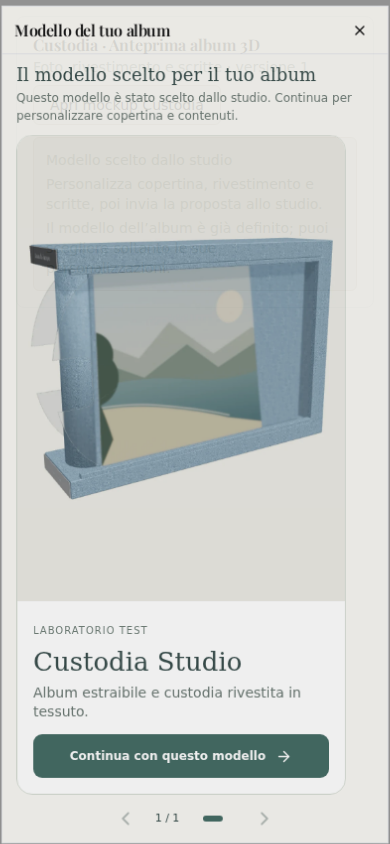
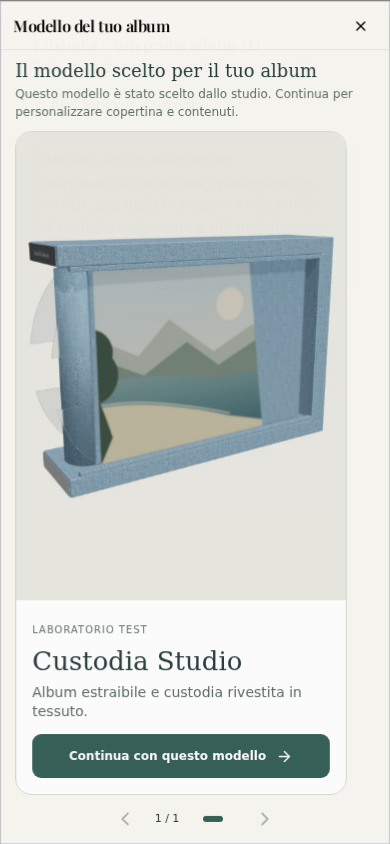
Bound mockup touch validation on software WebGL
Replit-Task-Id: 07e81dd9-e007-4550-8fd3-b0f441b176ba
Replit-Merge-Attempt: MergeTask:07e81dd9-e007-4550-8fd3-b0f441b176ba:1:af2d7fba

diff --git a/client/src/components/photobook/mockup-wizard-layout.ts b/client/src/components/photobook/mockup-wizard-layout.ts
@@ -40,6 +40,7 @@ export function installMockupWizard(doc: Document, mobile = false) {
     }
   }
   doc.body.dataset.wizard = 'true';
+  doc.body.dataset.wizardLayout = 'installing';
   if (mobile) doc.body.dataset.wizardMobile = 'true';
   const style = doc.createElement('style');
   style.textContent = `
@@ -81,8 +82,9 @@ export function installMockupWizard(doc: Document, mobile = false) {
     @media(max-width:767px) and (max-height:380px){body[data-wizard] main{grid-template-rows:minmax(100px,35%) minmax(0,1fr)}body[data-wizard] .wizard-views button:nth-child(3){display:none}}
   `;
   doc.head.append(style);
+  let mobileStyle: HTMLStyleElement | undefined;
   if (mobile) {
-    const mobileStyle = doc.createElement('style');
+    mobileStyle = doc.createElement('style');
     mobileStyle.textContent = `
       body[data-wizard-mobile] main {grid-template-columns:minmax(0,1fr) clamp(250px,42%,410px)!important;grid-template-rows:minmax(0,1fr)!important}
       body[data-wizard-mobile][data-viewer-expanded=true] main {grid-template-columns:minmax(0,1fr)!important}
@@ -239,7 +241,16 @@ export function installMockupWizard(doc: Document, mobile = false) {
   const observer = new MutationObserver(refresh);
   mirrors.forEach(({ select }) => observer.observe(select, { attributes: true, attributeFilter: ['disabled'] }));
   let previousHome = 'sideboard';
-  return { slot, actionsSlot, controlsSlot, refresh, dispose() { observer.disconnect(); },
+  doc.body.dataset.wizardLayout = 'ready';
+  let disposed = false;
+  return { slot, actionsSlot, controlsSlot, refresh, dispose() {
+    if (disposed) return;
+    disposed = true;
+    observer.disconnect();
+    delete doc.body.dataset.wizardLayout;
+    style.remove();
+    mobileStyle?.remove();
+  },
     view(action: 'front' | 'back' | 'reset' | 'plus' | 'minus' | 'extract' | 'rotate') {
       if (action === 'extract' && extraction) { extraction.value = Number(extraction.value) ? '0' : '100'; extraction.dispatchEvent(new Event('input', { bubbles: true })); }
       else doc.getElementById(action)?.click();

diff --git a/.agents/memory/mockup-touch-webgl-validation.md b/.agents/memory/mockup-touch-webgl-validation.md
@@ -8,3 +8,9 @@ Il test browser touch del mockup può restare bloccato nel renderer Chromium/Web
 **Why:** senza un timeout specifico del renderer e una diagnostica per fase, un controllo di regressione può superare il limite del runner senza distinguere un problema dell’app da un blocco dell’ambiente.
 
 **How to apply:** quando si estende o si esegue `e2e/mockup-touch.browser.mjs`, mantenere checkpoint diagnostici e cleanup con timeout; separare il percorso SwiftShader dai controlli che richiedono una GPU reale.
+
+Per i cambi renderer, i gate delle route devono avviare il proprio timeout solo quando la richiesta viene intercettata: il test può rilasciare il gate prima che Chromium apra il nuovo iframe. Per i tap dentro iframe appena sostituiti, usare il locator del frame per il bounding box; una query `document.querySelector('iframe')` può puntare al frame precedente durante la transizione.
+
+**Why:** con SwiftShader il processo GPU può ritardare la sincronizzazione tra frame Playwright e DOM principale, creando falsi timeout o coordinate calcolate sul renderer sbagliato.
+
+**How to apply:** mantenere sempre un timeout globale più ampio dei budget per fase, ma con timeout separati per gate, readiness, gesture e cleanup; in caso di timeout riportare almeno fase, titolo iframe, stato ready, layout wizard e disponibilità WebGL.
